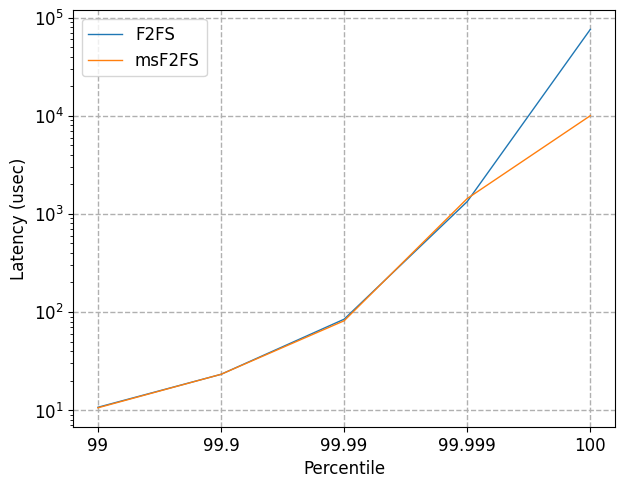
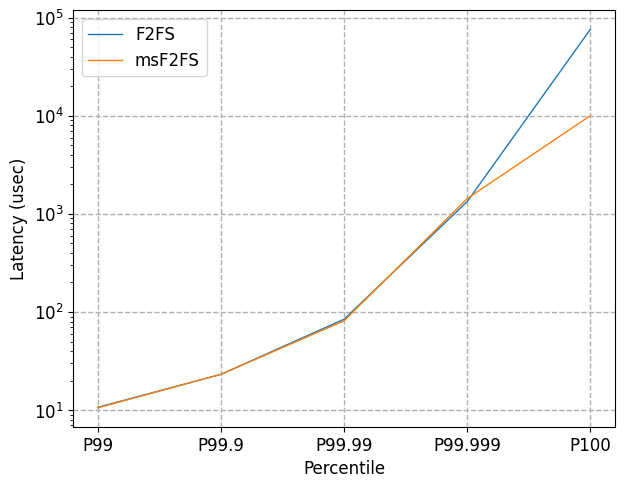
Fid update

diff --git a/gc/plot.py b/gc/plot.py
@@ -154,7 +154,7 @@ def plot_tail_latency():
     ax.set_axisbelow(True)
     plt.yscale("log")
     ax.xaxis.set_ticks([1,2,3,4,5])
-    ax.xaxis.set_ticklabels(["99", "99.9", "99.99", "99.999", "100"])
+    ax.xaxis.set_ticklabels(["P99", "P99.9", "P99.99", "P99.999", "P100"])
     ax.legend(loc='best')
     ax.set_xlabel("Percentile")
     ax.set_ylabel("Latency (usec)")
